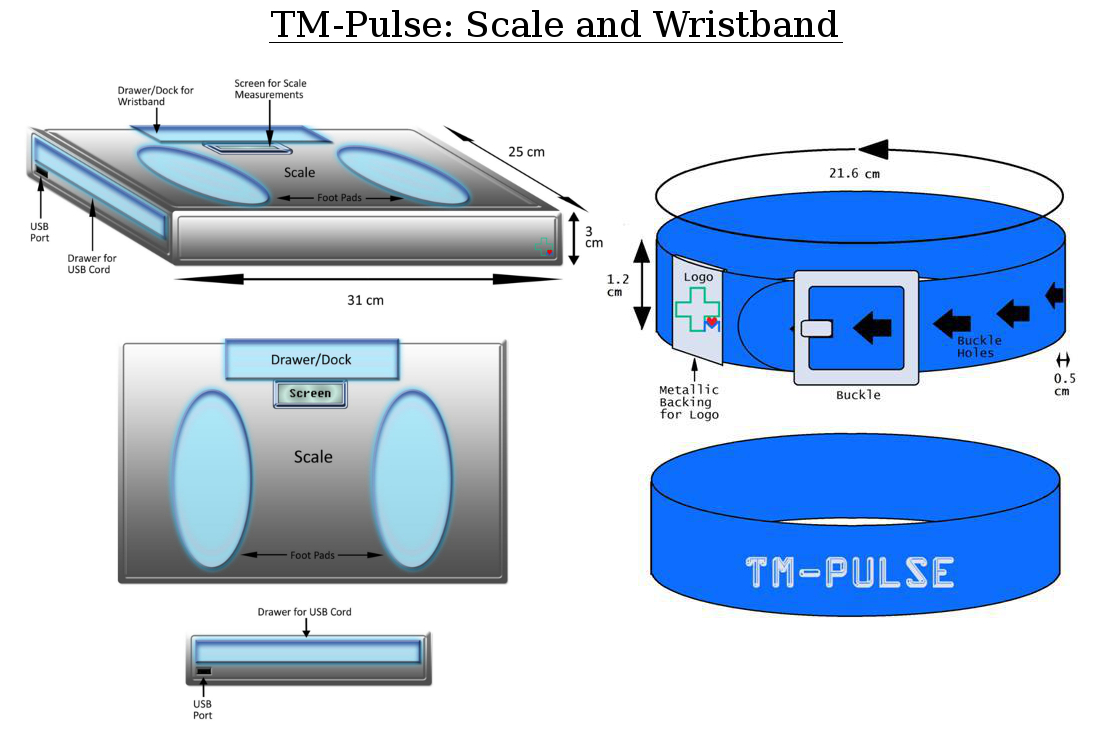
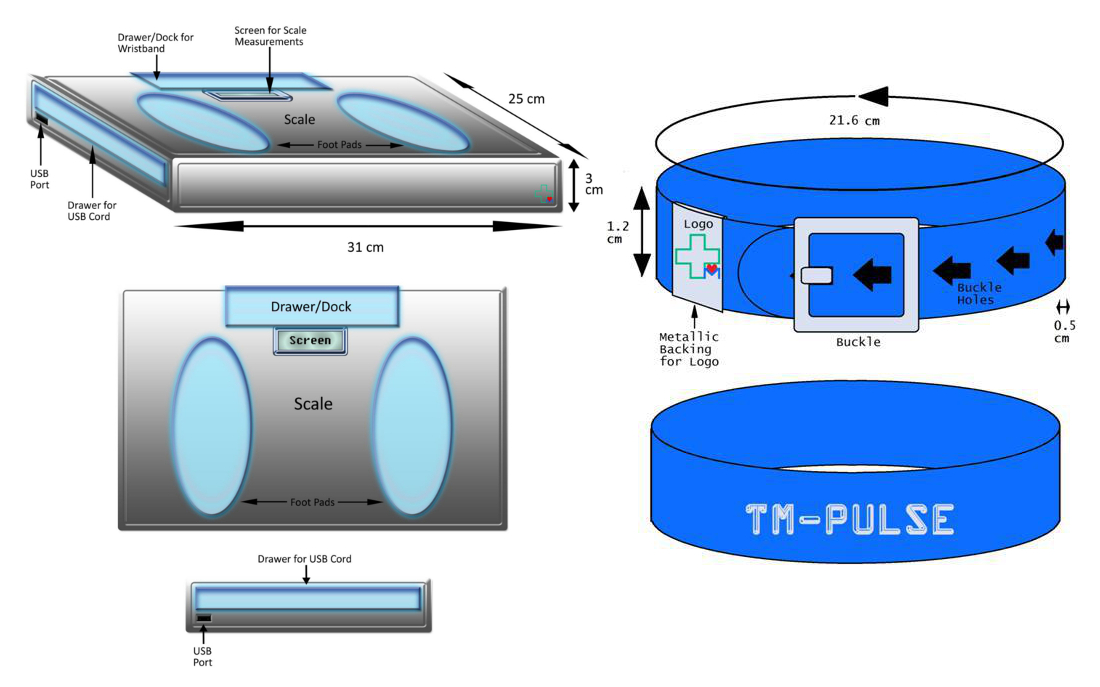
minor aesthetic updates

diff --git a/index.html b/index.html
@@ -59,9 +59,10 @@
       <h1>Introducing the TM-Pulse.</h1>
       <p>By providing fast and easy health benchmarks and communicating this data with doctors, the TM-Pulse will make healthcare more efficient.</p>
       <p>Simple, unobtrusive design, and easy-to-use software means long waits in doctors&apos; offices are are things of the past.</p>
-      <p>Join in this healthcare revolution today by <a href="http://www.facebook.com/TMPulse">liking us on Facebook</a> or <a href="./contact.html">talking to us about an investment</a>. Questions and comments also appreciated!</p>
+      <p>Join in this healthcare revolution today by <a href="http://www.facebook.com/TMPulse">liking us on Facebook</a> or <a href="./contact.html">talking to us about an investment</a>. Questions and comments are also appreciated.</p>
       <br />
       <div class="separator"></div>
+      <h1>The TM-Pulse. A Scale and Wristband Combination.</h1>
       <img src="./assets/img/scale.png" alt="Diagram of the TM-Pulse Components"><br /><br /> <br />
             <div class="separator"></div>
       <h1>Presenting the TechMedical Team.</h1>

diff --git a/about.html b/about.html
@@ -167,6 +167,7 @@
 		  display : block;
 		  vertical-align : top;
 		  padding-bottom : 1em;
+		  font-size: 24px;
 		}
 		.team-member-blurb p {
 		  display : block;  
